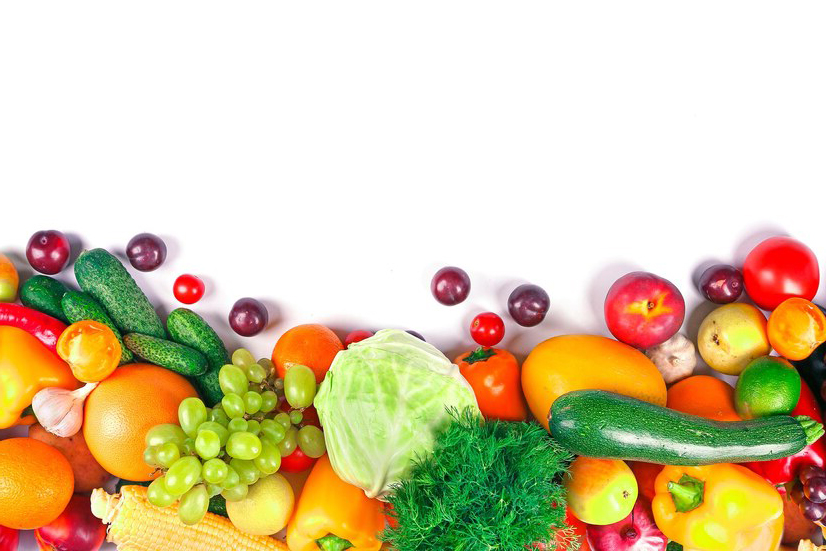
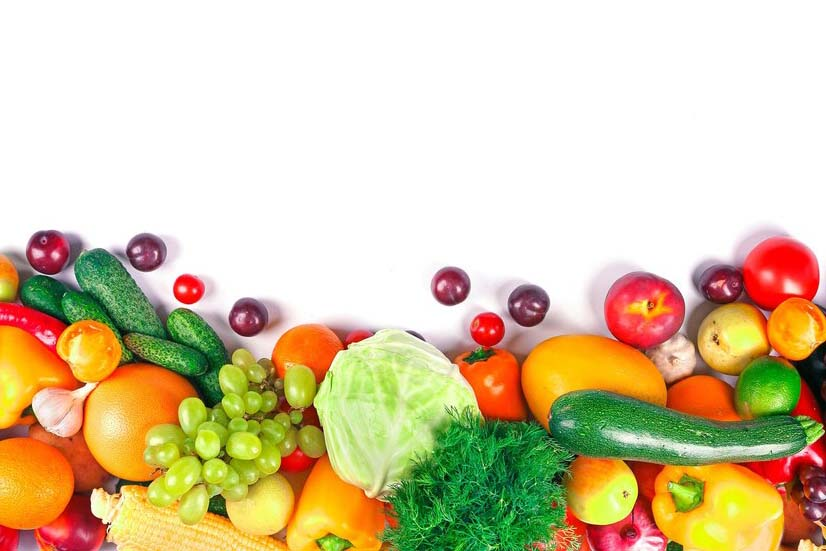
compressed the hero-section image

diff --git a/src/components/SelectCategories.tsx b/src/components/SelectCategories.tsx
@@ -45,7 +45,7 @@ const SelectCategories = () => {
                 menuList: () => "!py-0",
                 option: ({ isSelected, isFocused }) =>
                     clsx(
-                        "h-3 !pl-1 leading-[2rem] !cursor-pointer !border border-transparent mb-0.25 last:mb-0",
+                        "h-3 !pl-1 leading-[2rem] !cursor-pointer !border border-transparent mb-0.25 last:mb-0 last:rounded-b-1.5 first:rounded-t-1.5",
                         isSelected &&
                             "!text-primary !bg-white !border-y-primary",
                         isFocused && "!border-y-primary",
@@ -67,6 +67,7 @@ const OptionWithIcon = (props: OptionProps<OptionType>) => {
     return (
         <Option {...props} className={clsx("h-3", isSelected && "font-white")}>
             <span>{label}</span>
+            <span className=""></span>
         </Option>
     );
 };
